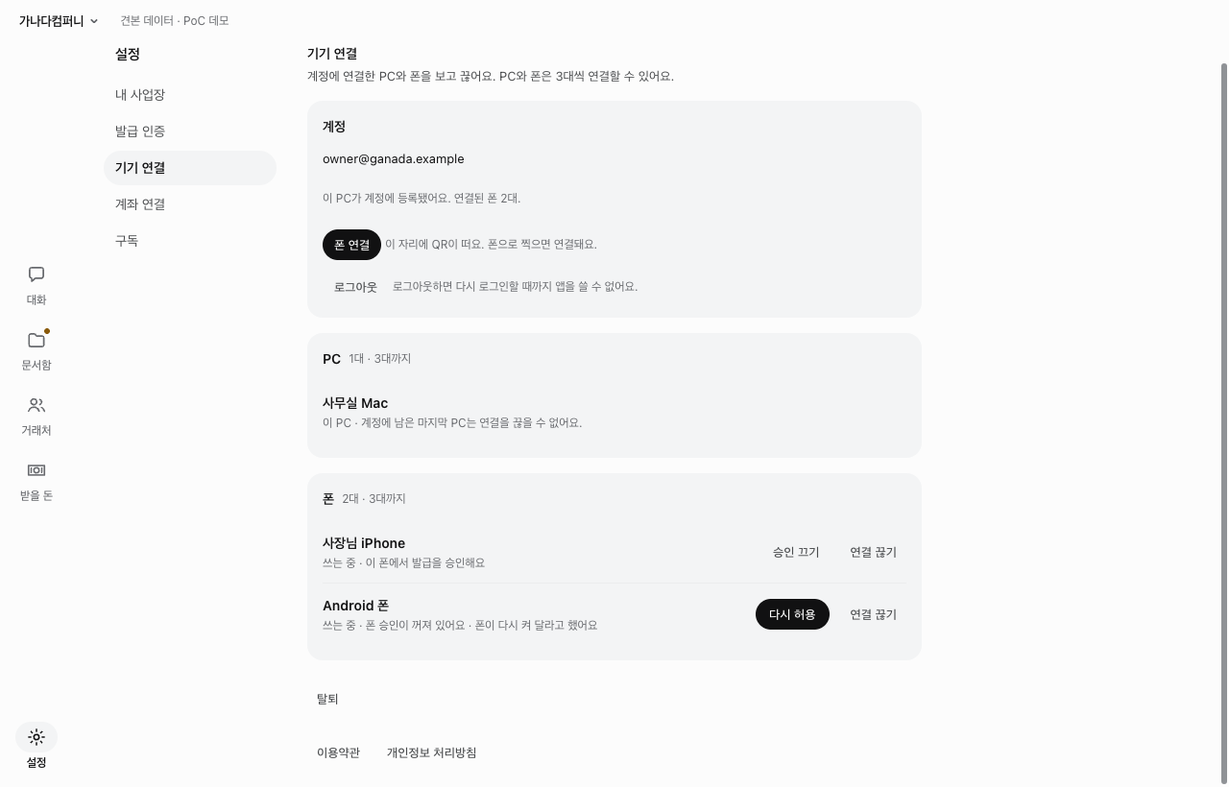
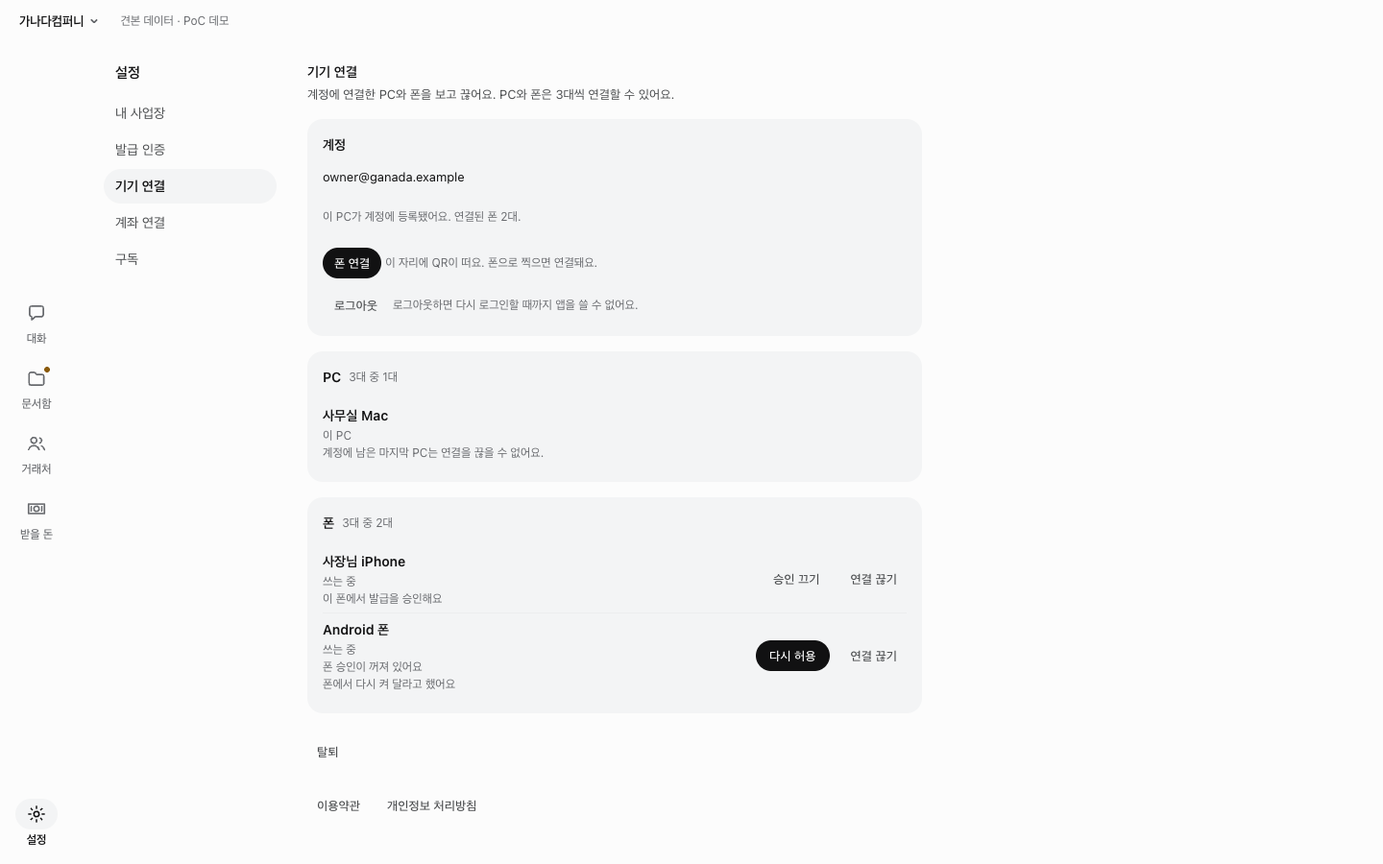
기기 연결: 끊기·승인 끄기는 앱 안 모달로 묻고, 끊은 폰은 바로 폐기해 목록과 자리에서 뺀다
- [연결 끊기]·[이 PC 연결 끊기]·[승인 끄기]: 줄 안 문구 바꾸기 대신 메인 창 안 모달(배경 흐림, 뒤 화면 inert, Tab 가둠, Esc·[취소], 처음 초점은 [취소])
- 계정 서비스: 등록 7일 안 된 PC가 끊어도 폰은 유예 없이 바로 revoked(자리 바로 빔). PC 유예는 그대로. 예전 규칙으로 정지 중인 폰도 다음 목록 갱신 때 폐기
- PC 목록: 정지된 폰은 보이지 않는다(배포 전 남아 있는 것 포함)
- 기기 연결 화면 문구에서 가운뎃점을 없앴다(상태는 줄을 나눠 보인다, '3대 중 2대')
- ADR-048 결정 6 개정 기록(2026-11-19, 폰만 예외인 이유와 남는 위험)
- 시험·미리보기 장면·캡처 갱신

diff --git a/poc/apps/desktop/static/shell/shell-devices.js b/poc/apps/desktop/static/shell/shell-devices.js
@@ -1,8 +1,10 @@
 // 설정 > 기기 연결의 계정 기기 목록과 새 PC 연결 요청(ADR-048 결정 1·3·6). 쓰던 PC 쪽 화면이다(새 PC 쪽은 shell-account.js 로그인 화면).
-// - 목록: PC 묶음·폰 묶음(각 3대까지). 다른 기기는 [연결 끊기](확인 한 번), 이 PC는 [이 PC 연결 끊기](계정에 남은 마지막 PC면 안내만).
+// - 목록: PC 묶음·폰 묶음(각 3대까지). 다른 기기는 [연결 끊기], 이 PC는 [이 PC 연결 끊기](계정에 남은 마지막 PC면 안내만). 끊기·승인 끄기는 메인 창 안 모달(modal())로 한 번 묻는다.
+// - 끊은 폰은 목록에서 바로 빠진다(서버도 바로 폐기하고 자리를 비운다, ADR-048 결정 6 2026-11-19 개정). 서버가 아직 정지로 둔 폰도 보이지 않는다.
+// - 화면 문구에 가운뎃점을 쓰지 않는다(2026-11-19 대표). 상태는 줄을 나눠 보인다.
 // - 새 PC 요청: [연결] → 새 PC 화면의 6자리를 넣고 [확인]. 6자리는 이 렌더러에 미리 오지 않는다(사람이 새 PC 화면을 보고 넣는다).
 // - 이 PC가 다른 기기에서 끊겼거나 정지됐으면(account.device_suspended) 목록 대신 안내와 [다시 로그인].
-// - 폰 승인(ADR-052): 승인 키를 받은 폰은 [승인 끄기](같은 줄 안에서 확인 한 번), 꺼 둔 폰은 "폰 승인이 꺼져 있어요" + [다시 허용].
+// - 폰 승인(ADR-052): 승인 키를 받은 폰은 [승인 끄기](모달로 확인 한 번), 꺼 둔 폰은 "폰 승인이 꺼져 있어요" + [다시 허용].
 //   끄면 연결은 그대로 두고 승인 키만 지운다(phone-link revokePx). 다시 허용하면 폰이 청한 키를 바로 받는다(allowPx).
 // 문구는 폰 앱의 연결된 기기 화면(taxoff-mobile src/devices.ts)과 맞춘다. 값은 모두 textContent로 넣는다.
 import { btn, h, icon } from './shell-views.js';
@@ -41,12 +43,15 @@ const kindName = (d) => (d.role === 'desktop' ? (d.platform === 'macos' ? 'Mac' 
 export function deviceSub(d, now, linking = false) {
   if (d.state === 'pending' || linking) return '연결하는 중';
   if (d.state === 'suspended') {
-    if (d.deleteAfter === null) return '정지됨';
+    if (d.deleteAfter === null) return '쓸 수 없게 막아 뒀어요';
     const days = Math.ceil((d.deleteAfter - now) / DAY);
-    return days <= 0 ? '정지됨 · 곧 끊겨요' : `정지됨 · ${days}일 뒤 끊겨요`;
+    return days <= 0 ? '곧 목록에서 빠져요' : `연결을 끊었어요. ${days}일 뒤 목록에서 빠져요`;
   }
   return d.self ? '이 PC' : '쓰는 중';
 }
+
+/** 목록에 보일 기기: 끊었거나 막아 둔 폰은 바로 뺀다(PC는 새로 붙은 PC가 밀어내지 못하게 남는 날짜를 보인다). */
+export const shownDevices = (list) => list.filter((d) => !(d.role === 'mobile' && d.state === 'suspended'));
 
 /** ctx: { call, rerender, errText, toast, visible(), signedIn(), onAccount(view), relogin() } */
 export function createDevices(ctx) {
@@ -212,7 +217,7 @@ export function createDevices(ctx) {
     h(
       'div',
       { class: 'auth-row dev-row', ...attrs },
-      h('span', { class: 'opt-main' }, h('span', { class: 'auth-name' }, name), h('span', { class: `sx-meta${attention ? ' is-attention' : ''}` }, sub)),
+      h('span', { class: 'opt-main' }, h('span', { class: 'auth-name' }, name), ...[sub].flat().filter(Boolean).map((t, i) => h('span', { class: `sx-meta${attention && !i ? ' is-attention' : ''}` }, t))),
       ...acts,
     );
 
@@ -221,27 +226,9 @@ export function createDevices(ctx) {
     const linking = s.reqs.some((x) => x.deviceId === d.deviceId && x.stage !== 'done');
     const sub = deviceSub(d, Date.now(), linking);
     const attrs = { 'data-device': d.deviceId, 'data-device-state': linking ? 'linking' : d.state, ...(d.self ? { 'data-device-self': '' } : {}) };
-    const key = d.self ? 'self' : d.deviceId;
-    if (s.confirm === key) {
-      const ask = d.self ? '이 PC 연결을 끊을까요? 로그아웃되고, 다시 쓰려면 다른 PC에서 승인해야 해요.' : `${name} 연결을 끊을까요? 그 기기는 바로 계정을 쓸 수 없어요.`;
-      return h(
-        'div',
-        { class: 'dev-confirm', ...attrs, 'data-device-confirm': '' },
-        h('p', { class: 'sx-body-sm' }, ask),
-        h('div', { class: 'sx-actions' }, btn('끊기', () => (d.self ? leave() : unlink(d)), 'sx-btn-primary', { disabled: s.busy, 'data-act': d.self ? 'device-leave' : 'device-unlink' }), btn('그만두기', () => set({ confirm: null }), 'sx-btn-quiet', { 'data-act': 'device-confirm-back' })),
-      );
-    }
-    if (s.pxConfirm === d.deviceId) {
-      return h(
-        'div',
-        { class: 'dev-confirm', ...attrs, 'data-px-confirm': '' },
-        h('p', { class: 'sx-body-sm' }, `${name}의 발급 승인을 끌까요? 연결은 그대로 두고, 이 폰에서는 세금계산서 발급을 승인할 수 없게 돼요. 언제든 [다시 허용]으로 켤 수 있어요.`),
-        h('div', { class: 'sx-actions' }, btn('승인 끄기', () => setPx(d, false), 'sx-btn-primary', { disabled: s.busy, 'data-act': 'px-off' }), btn('그만두기', () => set({ pxConfirm: null }), 'sx-btn-quiet', { 'data-act': 'px-confirm-back' })),
-      );
-    }
     // 폰 승인 상태(이 PC와 연결한 폰만): 켜짐 → [승인 끄기], 꺼 둠 → [다시 허용]
     const px = d.role === 'mobile' && d.state === 'active' ? d.approval : undefined;
-    const pxSub = px === 'on' ? ' · 이 폰에서 발급을 승인해요' : px === 'paused' ? ' · 폰 승인이 꺼져 있어요' : px === 'asked' ? ' · 폰 승인이 꺼져 있어요 · 폰이 다시 켜 달라고 했어요' : '';
+    const pxSub = px === 'on' ? ['이 폰에서 발급을 승인해요'] : px === 'paused' ? ['폰 승인이 꺼져 있어요'] : px === 'asked' ? ['폰 승인이 꺼져 있어요', '폰에서 다시 켜 달라고 했어요'] : [];
     const pxAct =
       px === 'on'
         ? btn('승인 끄기', () => set({ pxConfirm: d.deviceId, confirm: null, msg: null }), 'sx-btn-quiet', { disabled: s.busy, 'data-act': 'px-off-open' })
@@ -255,7 +242,7 @@ export function createDevices(ctx) {
       act = btn('연결 끊기', () => set({ confirm: d.deviceId, pxConfirm: null, msg: null }), 'sx-btn-quiet', { 'data-act': 'device-unlink-open' });
     }
     if (px) attrs['data-px'] = px;
-    return row(attrs, name, d.self && activePcs <= 1 ? `${sub} · ${LAST_PC}` : sub + pxSub, d.state === 'suspended', pxAct, act);
+    return row(attrs, name, d.self && activePcs <= 1 ? [sub, LAST_PC] : [sub, ...pxSub], d.state === 'suspended', pxAct, act);
   }
 
   function group(title, list, activePcs, role) {
@@ -266,7 +253,7 @@ export function createDevices(ctx) {
     return h(
       'article',
       { class: 'sx-card dev-group', 'data-device-group': role, ...(full ? { 'data-device-full': '' } : {}) },
-      h('div', { class: 'sx-card-hd' }, h('h2', { class: 'sx-card-title' }, title), h('span', { class: 'sx-meta' }, `${list.length}대 · ${MAX_PER_ROLE}대까지`)),
+      h('div', { class: 'sx-card-hd' }, h('h2', { class: 'sx-card-title' }, title), h('span', { class: 'sx-meta', 'data-device-count': String(list.length) }, `${MAX_PER_ROLE}대 중 ${list.length}대`)),
       list.length ? h('div', { class: 'dev-rows' }, ...list.map((d) => deviceRow(d, activePcs, d.deviceId === firstPaused))) : h('p', { class: 'sx-body-sm is-muted' }, role === 'mobile' ? '아직 연결한 폰이 없어요. 위의 [폰 연결]로 연결해요.' : '연결한 PC가 없어요.'),
       full ? h('p', { class: 'sx-meta', 'data-device-full-note': '' }, FULL_NOTE) : null,
     );
@@ -305,7 +292,7 @@ export function createDevices(ctx) {
       );
     }
     if (r.stage === 'done')
-      return h('div', { class: 'dev-req', ...attrs }, h('div', { class: 'auth-row dev-row' }, h('span', { class: 'dev-done-mk', 'aria-hidden': 'true' }, icon('check')), h('span', { class: 'opt-main' }, h('span', { class: 'auth-name', 'data-pclink-done': '' }, '연결됐어요'), h('span', { class: 'sx-meta' }, `${name} · 새 PC에서 [네, 떴어요]를 누르면 끝나요`))));
+      return h('div', { class: 'dev-req', ...attrs }, h('div', { class: 'auth-row dev-row' }, h('span', { class: 'dev-done-mk', 'aria-hidden': 'true' }, icon('check')), h('span', { class: 'opt-main' }, h('span', { class: 'auth-name', 'data-pclink-done': '' }, '연결됐어요'), h('span', { class: 'sx-meta' }, name), h('span', { class: 'sx-meta' }, '새 PC에서 [네, 떴어요]를 누르면 끝나요'))));
     return h('div', { class: 'dev-req', ...attrs }, row({}, name, '다른 PC에서 연결을 받고 있어요', false));
   }
 
@@ -342,14 +329,59 @@ export function createDevices(ctx) {
         msg,
       ];
     const pcs = s.list.filter((d) => d.role === 'desktop');
-    const phones = s.list.filter((d) => d.role === 'mobile');
+    const phones = shownDevices(s.list).filter((d) => d.role === 'mobile');
     const activePcs = pcs.filter((d) => d.state === 'active').length;
     // 이 PC가 맨 위, 나머지는 연결한 순서(main이 등록 순으로 준다)
     pcs.sort((a, b) => (a.self === b.self ? 0 : a.self ? -1 : 1));
     return [requestsCard(), msg, group('PC', pcs, activePcs, 'desktop'), group('폰', phones, activePcs, 'mobile')];
   }
 
+  /**
+   * 끊기·승인 끄기 확인(메인 창 안 모달, 배경 흐림). 띄울 것이 없으면 null. Esc·[취소]는 close().
+   * 이 PC 끊기는 로그아웃되니 그 말을 같이 한다.
+   */
+  function modal() {
+    const d = s.pxConfirm ? s.list?.find((x) => x.deviceId === s.pxConfirm) : s.confirm ? s.list?.find((x) => (s.confirm === 'self' ? x.self : x.deviceId === s.confirm)) : null;
+    if (!d) return null;
+    const name = d.name || kindName(d);
+    const px = !!s.pxConfirm;
+    const kind = px ? 'px' : d.self ? 'self' : 'unlink';
+    const T = {
+      px: [`${name}의 발급 승인을 끌까요?`, '연결은 그대로 두고, 이 폰에서는 세금계산서 발급을 승인할 수 없게 돼요.', '언제든 [다시 허용]으로 켤 수 있어요.', '승인 끄기', 'px-off'],
+      self: ['이 PC 연결을 끊을까요?', '이 PC는 로그아웃되고 목록에서 빠져요.', '다시 쓰려면 로그인한 뒤 다른 PC에서 승인해야 해요.', '연결 끊기', 'device-leave'],
+      unlink: [`${name} 연결을 끊을까요?`, d.role === 'mobile' ? '이 폰은 바로 계정을 쓸 수 없고 목록에서 빠져요.' : '그 PC는 바로 계정을 쓸 수 없어요.', d.role === 'mobile' ? '다시 쓰려면 폰에서 [PC와 연결]로 QR을 다시 찍으면 돼요.' : '다시 쓰려면 그 PC에서 로그인한 뒤 이 PC에서 승인해 주세요.', '연결 끊기', 'device-unlink'],
+    }[kind];
+    const go = () => (px ? setPx(d, false) : d.self ? leave() : unlink(d));
+    const box = h(
+      'section',
+      { class: 'modal dev-modal', role: 'alertdialog', 'aria-modal': 'true', 'aria-labelledby': 'dev-m-title', 'aria-describedby': 'dev-m-body', 'data-device-confirm': kind, ...(px ? { 'data-px-confirm': '' } : {}) },
+      h('div', { class: 'modal-hd' }, h('div', { class: 'modal-title' }, h('h2', { class: 'title-screen', id: 'dev-m-title' }, T[0]), h('p', { class: 'sx-body-sm is-muted', id: 'dev-m-body' }, T[1], h('br'), T[2]))),
+      h('div', { class: 'modal-acts' }, btn('취소', close, 'sx-btn-lg', { 'data-act': px ? 'px-confirm-back' : 'device-confirm-back' }), btn(s.busy ? (px ? '끄는 중…' : '끊는 중…') : T[3], go, 'sx-btn-primary sx-btn-lg', { disabled: s.busy, 'data-act': T[4] })),
+    );
+    // Tab이 모달 밖으로 나가지 않게
+    box.addEventListener('keydown', (e) => {
+      if (e.key !== 'Tab') return;
+      const f = [...box.querySelectorAll('button')].filter((x) => !x.disabled);
+      if (!f.length) return;
+      const at = f.indexOf(document.activeElement);
+      const to = e.shiftKey ? (at <= 0 ? f[f.length - 1] : null) : at === f.length - 1 || at < 0 ? f[0] : null;
+      if (!to) return;
+      e.preventDefault();
+      to.focus();
+    });
+    return h('div', { class: 'modal-scrim is-blur' }, box);
+  }
+  /** 모달 닫기(Esc·[취소]). 끊는 중에는 닫지 않는다. */
+  function close() {
+    if (s.busy || (!s.confirm && !s.pxConfirm)) return false;
+    const back = s.pxConfirm ? `[data-device="${s.pxConfirm}"] [data-act=px-off-open]` : s.confirm === 'self' ? '[data-act=device-leave-open]' : `[data-device="${s.confirm}"] [data-act=device-unlink-open]`;
+    set({ confirm: null, pxConfirm: null });
+    // 연 단추로 초점을 돌려준다
+    document.querySelector(back)?.focus();
+    return true;
+  }
+
   /** 이 PC가 다른 기기에서 끊겼다(목록 대신 안내, 계정 카드도 숨긴다) */
   const gone = () => ctx.signedIn() && s.err === 'account.device_suspended';
-  return { load, view, gone, state: s };
+  return { load, view, gone, modal, close, state: s };
 }

diff --git a/poc/tests/services-account.test.ts b/poc/tests/services-account.test.ts
@@ -490,33 +490,36 @@ describe('M4-5 계정: AIK 고정·기기 목록·기기 범위 토큰', () => {
     assert.equal((await e.req('PUT', '/v1/device-list', { headers: bearer(s), body: { deviceList: { listVersion: 3, entries: [entry(pc.aik, pc.d, 1)], revoked: [] } } })).json.error, 'account.unauthorized');
   });
 
-  it('폐기: 나중에 붙은 PC가 등록 7일 안에 끊으면 폰은 바로 정지되고 7일 뒤 폐기, 7일이 지나면 즉시(ADR-048 결정 6)', async () => {
+  it('폐기: 나중에 붙은 PC가 등록 7일 안에 끊어도 폰은 유예 없이 바로 폐기하고 자리를 비운다(ADR-048 결정 6, 2026-11-19 개정)', async () => {
     const { pc, d2, ps, state } = await fleet(e, 'rev@example.com');
     const [p1, p2] = ps as [Device, Device];
     const call2 = caller(e, pc.aik, d2);
     const keep = [entry(pc.aik, pc.d, 1), entry(pc.aik, d2, 2)];
     const r = await call2('PUT', '/v1/device-list', { deviceList: { listVersion: 3, entries: [...keep, entry(pc.aik, p2, 2)], revoked: [revokeRec(pc.aik, p1.id, e.clock.now())] } });
     assert.equal(r.status, 200, r.text);
-    const deleteAfter = e.clock.now() + 7 * D;
-    // 자리는 아직 차 있지만(폐기 전) 토큰·우편함·푸시는 바로 멈춘다
-    assert.equal((await state(p1.id)).state, 'suspended');
-    assert.equal((await state(p1.id)).deleteAfter, deleteAfter);
-    assert.deepEqual(e.stopped, [p1.id]);
-    assert.ok(e.mail.outbox.some((m) => m.kind === 'device_suspended'));
-    const c1 = cert(pc.aik, p1, e.clock.now() + 90 * D);
-    assert.equal((await e.req('POST', '/v1/device-tokens', { headers: { dpop: dpop('POST', ORIGIN + '/v1/device-tokens', jcs(c1), p1.V, e.clock.now()) }, body: { cert: c1 } })).json.error, 'account.device_suspended');
-    // 유예 중 목록을 다시 올려도 유예는 다시 시작하지 않는다
-    e.clock.advance(3 * D);
-    assert.equal((await call2('PUT', '/v1/device-list', { deviceList: { listVersion: 4, entries: [...keep, entry(pc.aik, p2, 2)], revoked: [revokeRec(pc.aik, p1.id, e.clock.now())] } })).status, 200);
-    assert.equal((await state(p1.id)).deleteAfter, deleteAfter);
-    e.clock.advance(4 * D);
-    await e.svc.sweep();
     assert.equal((await state(p1.id)).state, 'revoked');
-    // 두 번째 PC도 7일이 넘었으니 이번에는 즉시
-    const r2 = await call2('PUT', '/v1/device-list', { deviceList: { listVersion: 5, entries: keep, revoked: [revokeRec(pc.aik, p1.id, 1), revokeRec(pc.aik, p2.id, e.clock.now())] } });
-    assert.equal(r2.status, 200, r2.text);
-    assert.equal((await state(p2.id)).state, 'revoked');
-    assert.equal(e.stopped.at(-1), p2.id);
+    assert.equal((await state(p1.id)).deleteAfter, null);
+    assert.deepEqual(e.stopped, [p1.id]);
+    assert.ok(e.mail.outbox.some((m) => m.kind === 'device_revoked'));
+    assert.ok(!e.mail.outbox.some((m) => m.kind === 'device_suspended'));
+    const c1 = cert(pc.aik, p1, e.clock.now() + 90 * D);
+    assert.equal((await e.req('POST', '/v1/device-tokens', { headers: { dpop: dpop('POST', ORIGIN + '/v1/device-tokens', jcs(c1), p1.V, e.clock.now()) }, body: { cert: c1 } })).status >= 400, true);
+    // 같은 폐기 레코드를 다시 올려도 그대로다
+    assert.equal((await call2('PUT', '/v1/device-list', { deviceList: { listVersion: 4, entries: [...keep, entry(pc.aik, p2, 2)], revoked: [revokeRec(pc.aik, p1.id, e.clock.now())] } })).status, 200);
+    assert.equal((await state(p1.id)).state, 'revoked');
+  });
+
+  it('폐기: 예전 규칙으로 정지·유예 중이던 폰도 다음 목록 갱신 때 바로 폐기된다', async () => {
+    const { pc, d2, ps, state } = await fleet(e, 'rev-old@example.com');
+    const [p1, p2] = ps as [Device, Device];
+    const call2 = caller(e, pc.aik, d2);
+    const keep = [entry(pc.aik, pc.d, 1), entry(pc.aik, d2, 2)];
+    // 예전 규칙이 남긴 상태를 흉내 낸다: 정지 + 7일 뒤 폐기 예약
+    await e.db.run("UPDATE devices SET state = 'suspended', delete_after = $1 WHERE device_id = $2", [e.clock.now() + 7 * D, p1.id]);
+    const r = await call2('PUT', '/v1/device-list', { deviceList: { listVersion: 3, entries: [...keep, entry(pc.aik, p2, 2)], revoked: [revokeRec(pc.aik, p1.id, e.clock.now())] } });
+    assert.equal(r.status, 200, r.text);
+    assert.equal((await state(p1.id)).state, 'revoked');
+    assert.equal((await state(p1.id)).deleteAfter, null);
   });
 
   it('폐기: 계정의 첫 PC는 가입 첫 주에도 유예 없이 즉시 끊는다(ADR-048 결정 6)', async () => {

diff --git a/poc/services/account/src/service.ts b/poc/services/account/src/service.ts
@@ -1354,8 +1354,6 @@ export class AccountService {
    */
   async updateDeviceList(requester: { accountId: string; deviceId: string }, l: DeviceList): Promise<{ listVersion: number }> {
     const stopped: string[] = [];
-    /** 유예 중이라 폐기는 아직이지만 바로 정지한 폰 */
-    const halted: string[] = [];
     await this.db.tx(async (q) => {
       const a = await q.one<AccountRow>(`SELECT * FROM accounts WHERE id = $1${q.forUpdate}`, [requester.accountId]);
       if (!a) return fail('account.unauthorized');
@@ -1396,15 +1394,13 @@ export class AccountService {
       for (const [id, r] of revoked) {
         const d = byId.get(id);
         if (!d || d.state === 'revoked') continue;
+        // 유예는 PC를 끊을 때만 건다: 새로 붙은 PC가 쓰던 PC를 즉시 멈추거나 밀어내지 못하게(PC는 정지도 하지 않는다).
+        // 폰은 유예 없이 바로 폐기하고 자리를 비운다(ADR-048 결정 6, 2026-11-19 개정). 폰은 예전에도 끊는 즉시 정지했으니
+        // 새 PC가 할 수 있는 일은 그대로이고, 잃는 것은 7일 안에 되살리기뿐이다(잘못 끊은 폰은 QR로 다시 연결한다).
+        // 예전 규칙으로 정지·유예 중인 폰도 다음 목록 갱신 때 같은 폐기 레코드로 여기서 폐기된다.
         // 유예는 처음 폐기 레코드가 들어온 때부터 센다(목록을 다시 올려도 다시 시작하지 않는다)
-        if (cooling) {
+        if (cooling && d.role === 'desktop') {
           await q.run('UPDATE devices SET delete_after = COALESCE(delete_after, $1), revoke_record = $2 WHERE device_id = $3', [now + ACCOUNT.deleteGraceDays * MS.D, jcs(r), id]);
-          // 폰은 유예 중에도 바로 정지한다(잃어버린 폰의 토큰·우편함·푸시가 7일 살아 있지 않게). 자리는 유예가 끝나야 빈다.
-          // PC는 정지하지 않는다: 새로 붙은 PC가 쓰던 PC를 즉시 멈출 수 없어야 한다
-          if (d.role === 'mobile' && (d.state === 'active' || d.state === 'pending')) {
-            await q.run("UPDATE devices SET state = 'suspended' WHERE device_id = $1", [id]);
-            halted.push(id);
-          }
         } else {
           await q.run("UPDATE devices SET state = 'revoked', revoke_record = $1, delete_after = NULL WHERE device_id = $2", [jcs(r), id]);
           await q.run("INSERT INTO device_events (account_id, role, kind, day) VALUES ($1, $2, 'remove', $3)", [requester.accountId, d.role, kstDay(now)]);
@@ -1413,9 +1409,8 @@ export class AccountService {
       }
       await q.run('UPDATE accounts SET device_list_version = $1, device_list_json = $2 WHERE id = $3', [l.listVersion, jcs(l), requester.accountId]);
     });
-    for (const id of [...stopped, ...halted]) await this.stopped(id);
+    for (const id of stopped) await this.stopped(id);
     if (stopped.length) await this.notify(requester.accountId, 'device_revoked');
-    if (halted.length) await this.notify(requester.accountId, 'device_suspended');
     return { listVersion: l.listVersion };
   }
 

diff --git a/poc/apps/desktop/static/shell/shell.css b/poc/apps/desktop/static/shell/shell.css
@@ -351,6 +351,7 @@ body.bar-active .rs-waiting { display: inline-flex; }
 
 /* 모달: scrim 위 surface-overlay, 그림자는 떠 있는 것에만. 토스트는 그 위에 보인다. */
 .modal-scrim { position: fixed; inset: 0; z-index: 9; background: var(--scrim); display: flex; align-items: center; justify-content: center; padding: 24px; box-sizing: border-box; }
+.modal-scrim.is-blur { backdrop-filter: blur(8px) saturate(0.9); -webkit-backdrop-filter: blur(8px) saturate(0.9); }
 .modal { width: 100%; max-width: 420px; box-sizing: border-box; background: var(--surface-overlay); border-radius: var(--radius-xl); box-shadow: var(--shadow-overlay); padding: 22px; display: flex; flex-direction: column; gap: var(--space-4); }
 @media (prefers-reduced-motion: no-preference) { .modal { animation: sx-pop var(--motion-slow) var(--ease-out); } }
 .modal-hd { display: flex; align-items: flex-start; gap: var(--space-3); }
@@ -366,6 +367,10 @@ body.bar-active .rs-waiting { display: inline-flex; }
 .modal-note { display: flex; gap: 10px; align-items: flex-start; padding: 10px 12px; border-radius: var(--radius-md); background: var(--surface-tint); color: var(--ink-2); font-size: 13px; line-height: 20px; }
 .modal-note svg { flex: none; width: 16px; height: 16px; margin-top: 2px; }
 .modal-acts { display: flex; justify-content: flex-end; gap: 6px; }
+.dev-modal { max-width: 400px; }
+.dev-modal .modal-title .sx-body-sm { line-height: 22px; }
+.dev-modal .modal-acts { margin-top: 4px; }
+.dev-modal .modal-acts > .sx-btn { flex: 1; }
 .doc-review { display: grid; gap: var(--space-3); margin-top: var(--space-3); }
 .doc-form { display: grid; grid-template-columns: repeat(auto-fit, minmax(140px, 1fr)); gap: var(--space-3); }
 .doc-hint { display: flex; align-items: center; gap: 8px; flex-wrap: wrap; }

diff --git a/poc/apps/desktop/static/shell/shell.js b/poc/apps/desktop/static/shell/shell.js
@@ -2522,12 +2522,18 @@ function renderModal() {
   if (loginGate() && !state.login) state.login = { screen: 'email', draft: { email: state.account?.email ?? '', password: '', code: '', show: false }, busy: false };
   const pw = state.view === 'docs' && !!state.docImport && !state.docBusy;
   const login = !pw && !!state.login;
-  const open = pw || login;
+  const dev = !pw && !login && state.view === 'settings' && state.setTab === 'devices' ? devices.modal() : null;
+  const open = pw || login || !!dev;
   // 처음 띄울 때와 창 안에 있던 포커스는 새 입력 칸으로 옮긴다(다시 그릴 때마다 칸을 새로 만든다)
   const a = document.activeElement;
   const focus = !root.firstChild || !a || a === document.body || root.contains(a);
-  root.replaceChildren(...(pw ? [passwordModal()] : login ? [loginScreen(loginCtx())] : []));
+  root.replaceChildren(...(pw ? [passwordModal()] : login ? [loginScreen(loginCtx())] : dev ? [dev] : []));
   $('#app').inert = open;
+  if (dev) {
+    // 처음 띄울 때는 [취소]에 둔다(끊기는 되돌릴 수 없어서 Enter 한 번으로 끊기지 않게)
+    if (focus) root.querySelector('[data-act=device-confirm-back], [data-act=px-confirm-back]')?.focus();
+    return;
+  }
   const i = open && focus ? root.querySelector(pw ? '.doc-pw' : '.acct-code, .acct-password, .acct-email, [data-act=account-reset-done]') : null;
   if (i) {
     i.focus();
@@ -2895,6 +2901,7 @@ window.sax.onEvent((ev) => {
 window.addEventListener('keydown', (e) => {
   if (e.key === 'Escape' && $('#modal').firstChild) {
     if (state.login) closeLogin();
+    else if ($('#modal [data-device-confirm]')) devices.close();
     else cancelPassword();
     return;
   }

diff --git a/sovereign-ax/design/adr/ADR-048-multi-device-three-pcs-three-phones.md b/sovereign-ax/design/adr/ADR-048-multi-device-three-pcs-three-phones.md
@@ -52,7 +52,10 @@
    - **처리방침**: 보관 항목에 "계정 공유 기록(암호문) · 종류·시각·크기" 한 줄이 늘어난다. 약관·처리방침 스레드에 알린다.
 6. **(서버와 PC 배선 구현, 화면과 폰 앱은 예정) 연결 끊기는 어느 기기에서든 하고, 누르는 즉시 막힌다.**
    - **PC에서**(설정 > 기기 연결, 모든 PC·폰 대상): AIK 폐기 레코드를 올린다. 서버는 그 기기를 바로 `revoked`로 바꾸고 정지 알림을 보낸다. 릴레이는 우편함·라이브 연결을 닫고, 푸시 토큰을 지우고, 게이트웨이·계정은 다음 요청부터 거부한다. 각 PC는 그 폰의 우편함과 연결 기록을 지운다.
-   - **7일 유예 고침**: 지금은 등록 7일이 안 된 PC가 끊으면 7일 뒤에야 적용된다. 이때도 대상이 폰이면 **정지는 즉시** 건다(토큰은 바로 죽고, 자리는 7일 뒤 빈다. 계정 웹에서 취소한 뒤 PC가 되살릴 수 있다). 대상이 PC면 정지하지 않고 유예만 건다(새로 붙은 PC가 쓰던 PC를 바로 멈추지 못하게). 계정의 첫 PC(AIK를 고정한 PC)는 유예 대상에서 뺀다(가입 첫 주에 폰을 잃은 경우).
+   - **7일 유예 고침**: 등록 7일이 안 된 PC가 **PC를** 끊으면 7일 뒤에야 적용된다. 정지하지 않고 유예만 건다(새로 붙은 PC가 쓰던 PC를 바로 멈추지 못하게). 계정의 첫 PC(AIK를 고정한 PC)는 유예 대상에서 뺀다.
+   - **폰은 유예 없이 바로 폐기한다(2026-11-19 개정, yulmu: "정지됨이 아니라 바로 끊고 리스트에서 삭제시켜")**: 어느 PC가 끊든 폰은 바로 `revoked`가 되고 자리(3대)가 바로 빈다. 목록에도 남지 않는다. 예전 규칙으로 정지·유예 중이던 폰은 다음 목록 갱신 때 같은 폐기 레코드로 폐기된다.
+     - 폰만 예외인 이유: 예전 규칙도 폰은 끊는 즉시 정지했다(토큰·우편함·푸시가 바로 멈춤). 그래서 새로 붙은 PC가 폰에 할 수 있는 일은 그대로이고, 잃는 것은 "7일 안에 계정 웹에서 취소하고 되살리기" 하나다. 폰은 QR 한 번으로 다시 연결되니 되살리기의 값이 작다. PC 유예는 그대로 둔다(PC는 RK·금고를 가진 기기라 새 PC가 쓰던 PC를 밀어내는 것을 막아야 한다).
+     - 남는 위험: 훔친 계정으로 새 PC를 붙인 사람이 사장님 폰을 끊을 수 있다(예전에도 정지는 할 수 있었다). 끊기면 기기 폐기 알림 메일이 간다(`device_revoked`).
    - **폰에서 자기 자신**: 폰 키·공유 기록 사본·대화를 지우고 서버에 스스로 나감을 알린다(`self/leave`, 기기 토큰). 서버는 바로 `revoked`로 바꾸고 자리를 비운다. PC는 다음 동기화 때 AIK 목록에서 그 항목을 뺀다.
    - **폰에서 다른 기기(잃어버린 폰·PC)**: 폰은 AIK가 없어 "정지"까지만 한다(`stop`, 기기 토큰). 서버는 바로 `suspended`로 바꾸고 7일 뒤 폐기를 예약하며 메일로 알린다. 켜져 있는 PC가 바로 확정하거나 정지를 풀 수 있다. 폰은 마지막 남은 활성 PC를 정지할 수 없다(훔친 폰으로 계정을 잠그지 못하게).
    - **끊긴 기기**: PC는 "이 PC는 연결이 끊겼어요"와 로그인 화면으로 간다. 그 PC의 장부는 지우지 않는다. 폰은 공유 기록 사본·대화 기록을 지우고 연결 화면으로 간다. 남은 기기는 공유 기록 열쇠의 세대를 올린다(결정 5).
